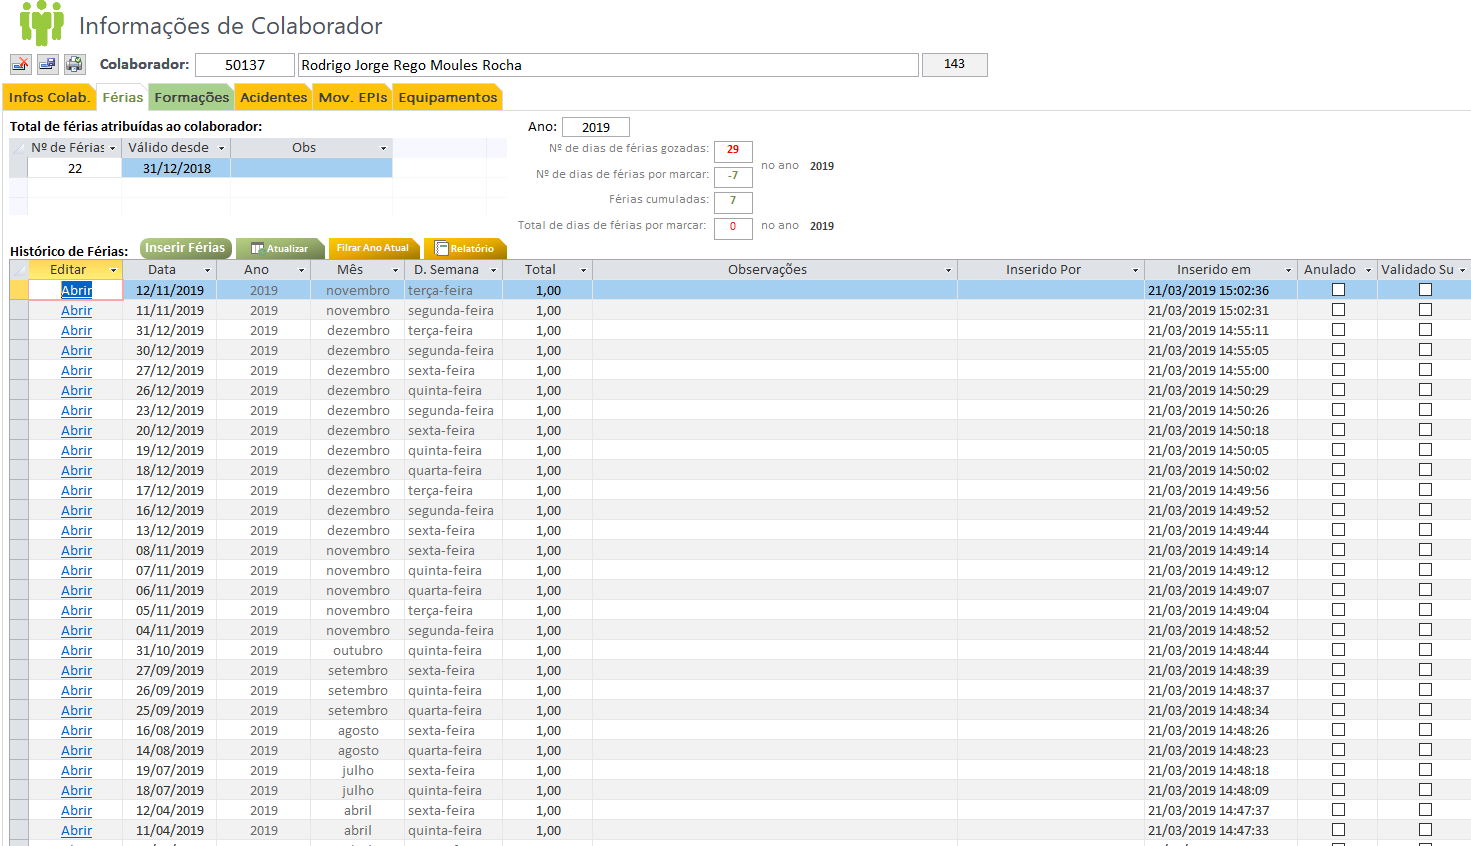
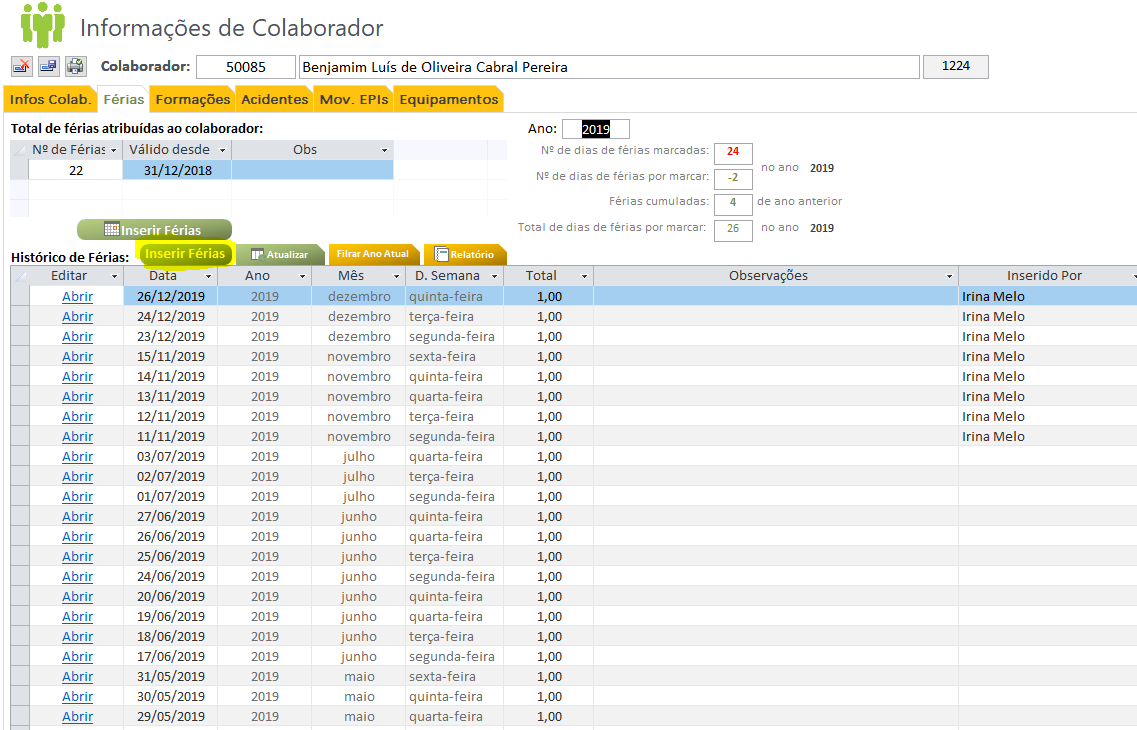
Changed Sup Colab Ferias

diff --git a/Suporte/SupGestFerias.rst b/Suporte/SupGestFerias.rst
@@ -17,7 +17,21 @@ Registo Férias
 
 A seguinte secção pretende documentar o registo de férias na base de dados, existindo duas opções, através do painel do Colaborador ou através do painel administrativo. 
 
-Colaborador
+Registo diário
+---------------------------
+
+Para o registo de férias através do painel do Colaborador, deverá aceder ao separador :guilabel:`Colaboradores`, na base de dados de suporte, selecionar o colaborador e clicar no separador :guilabel:`Férias`:
+
+.. image:: img/selectColab.PNG
+
+De seguida poderá começar imediatamente o registo de férias, ou através da tabela (última linha) ou clicando em :guilabel:`Inserir Férias`
+
+.. image:: img/formColabFerias.PNG
+
+.. Note:: Todas as férias incialmente introduzidas, por defeito, estão por validar pelo respetivo superior. 
+			Caso o superior já tenha validado as férias (folha assinada), deverá ser selecionado o campo "Validado superior" na respetiva data. 
+	
+Registo Mensal
 ---------------------------
 
 Para o registo de férias através do painel do Colaborador, deverá aceder ao separador :guilabel:`Colaboradores`, na base de dados de suporte, selecionar o colaborador e clicar no separador :guilabel:`Férias` sendo necessário o preenchimento do seguinte formulário:
@@ -28,7 +42,7 @@ Para o registo de férias através do painel do Colaborador, deverá aceder ao s
 
 .. Note:: Todas as férias incialmente introduzidas, por defeito, estão por validar pelo respetivo superior. 
 			Caso o superior responsável, já tenha validado as férias, deverá ser selecionado "validado superior" na respetiva data. 
-	
+			
 Listagem Geral
 ---------------------------
 
